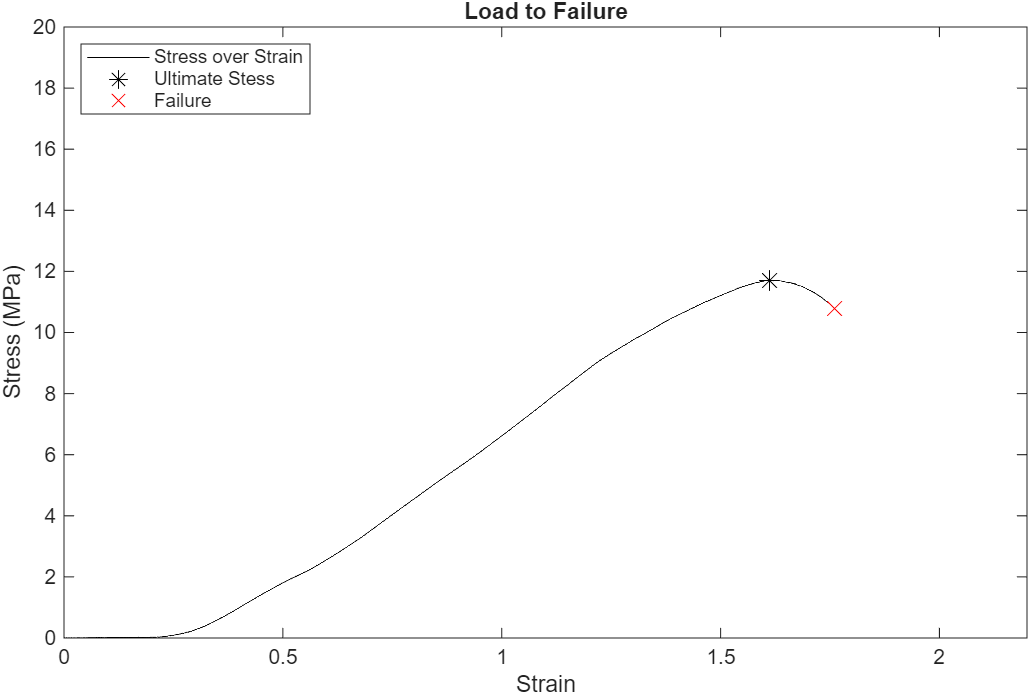
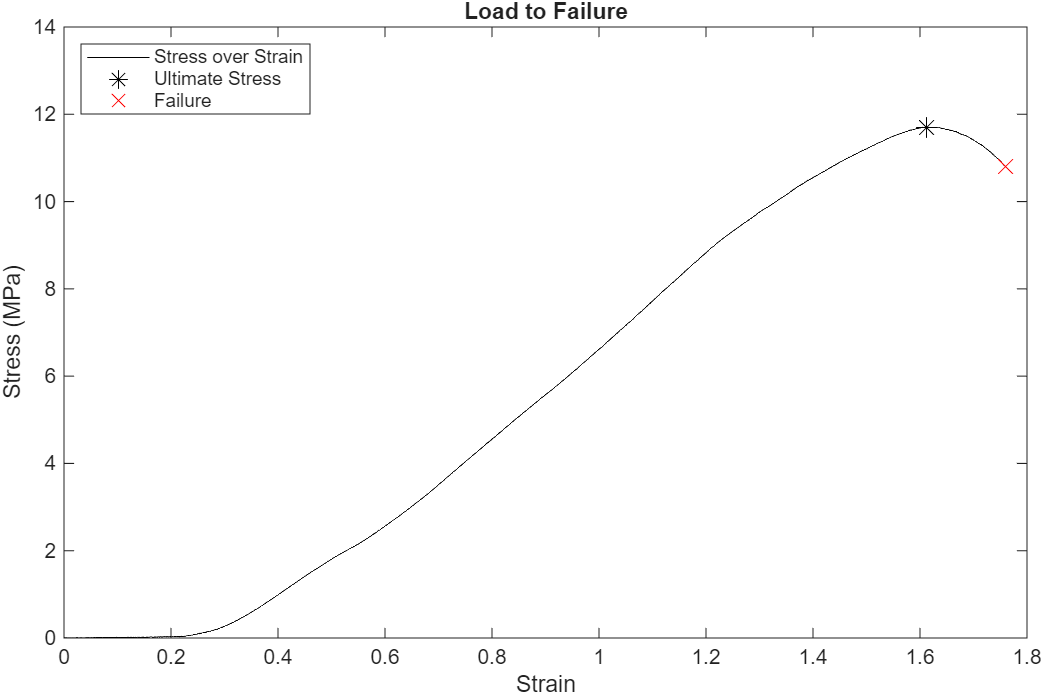
Updated README

diff --git a/main.m b/main.m
@@ -11,8 +11,8 @@ Diameter = 2.5; % Diameter of the indenter tip in mm
 Area = (Diameter/2)^2*pi; % Calculate indenter tip area
 
 % Load Data
-FailureData = readmatrix('LoadToFailureRawData.xlsx');
-RelaxationData = readmatrix('StressRelaxationRawData.xlsx');
+FailureData = readmatrix('Data/LoadToFailureRawData.xlsx');
+RelaxationData = readmatrix('Data/StressRelaxationRawData.xlsx');
 
 %% Stress Relaxation
 SRDepth = 1.32; % Initial length for stress relaxation test in mm
@@ -40,17 +40,18 @@ title("Load to Failure")
 xlabel("Strain")
 ylabel("Stress (MPa)")
 hold on
-plot(x1,y1,'k*','MarkerSize',10) % Plot points of ultimate stress
-plot(x2,y2,'rx','MarkerSize',10) % Plot points of failure
-legend('Stress over Strain','Ultimate Stess','Failure','Location','northwest')
-axis([0 2.2 0 20])
+plot(x1,y1,'k*','MarkerSize',10) % Plot point of ultimate stress
+plot(x2,y2,'rx','MarkerSize',10) % Plot point of failure
+legend('Stress over Strain','Ultimate Stress','Failure','Location','northwest')
+axis([0 1.8 0 14])
 
 %% Output Equation
 fileID = fopen('Output/equation.txt','wt');
-fprintf(fileID,'The following is the equation for relaxation modulus in MPa as a funciton of time in seconds as calculated by the Weichert Model:\n\n');
-fprintf(fileID,'E = %.2f',EValues(1));
+fprintf(fileID,'The following is the equation for relaxation modulus in MPa as a function of time in seconds as calculated by the Weichert Model:\n\n');
+fprintf(fileID,'E = %.2f',EValues(1)); % Initialize each equation with the first fitted constant
 for i = 2:length(EValues')
-fprintf(fileID,' + %.2f * exp(-t / %.2f)',EValues(i),tau(i));
+    % Loop through the remaining constants
+    fprintf(fileID,' + %.2f * exp(-t / %.2f)',EValues(i),tau(i)); % Add them to the equation
 end
 fclose(fileID);
 

diff --git a/load_to_failure_analysis.m b/load_to_failure_analysis.m
@@ -1,14 +1,14 @@
 % Function to analyze data from a load to failure test. Inputs data matrix,
-% intial displacement, and area. The data matrix needs to be formatted as
+% initial displacement, and area. The data matrix needs to be formatted as
 % two columns of normalized data, with the first column representing
 % displacement and the second column representing force. Outputs the
-% strain, stress, ultimate stress, coordiantes of ultimate stress, and
+% strain, stress, ultimate stress, coordinates of ultimate stress, and
 % coordinates of failure.
 
 function [strain,stress,ultimate,x1,y1,x2,y2] = load_to_failure_analysis(FailureData,LFDepth,Area)
 
-    force = FailureData(:,2,1); % Force array in Newtons
-    length = FailureData(:,1,1); % Displacement array in mm
+    force = FailureData(:,2); % Force array in Newtons
+    length = FailureData(:,1); % Displacement array in mm
     strain = abs(length / LFDepth); % Calculates the strain
     stress = force / Area; % Calculates the stress
     [ultimate,index] = max(stress); % Saves the maximum stress

diff --git a/stress_relaxation_analysis.m b/stress_relaxation_analysis.m
@@ -9,11 +9,11 @@
 
 function [time,RelaxationModulus,timeRelax,weichertRel,SD,PE,tau,EValues,correlation] = stress_relaxation_analysis(SRDepth,Area,N,RelaxationData)
 
-    time = RelaxationData(:,1,1); % Extract time array in seconds
-    force = RelaxationData(:,2,1); % Force array in Newtons
+    time = RelaxationData(:,1); % Extract time array in seconds
+    force = RelaxationData(:,2); % Force array in Newtons
     [~,maxIndex] = max(force); % finds where the maximum force occurs
     timeRelax = time(maxIndex:end); % Begins the time array with the maximum force
-    strain = abs(RelaxationData(maxIndex,3,1)/SRDepth); % Calculates the strain that occurs when the maximum force is reached
+    strain = abs(RelaxationData(maxIndex,3)/SRDepth); % Calculates the strain that occurs when the maximum force is reached
     RelaxationModulus = force / Area / strain; % Calculates the relaxation modulus
     weichertRelaxation = RelaxationModulus(maxIndex:end); % Begins relaxation modulus array at the maximum force
     

diff --git a/calculate_weichert.m b/calculate_weichert.m
@@ -34,7 +34,7 @@ function [RelMod,tau,EValues] = calculate_weichert(t,relax,N)
     EValues = (coef) \ ERel; % solves the system of linear equations
     
     % Solve for E over time
-    RelMod = EValues(1); % Initailize with E0
+    RelMod = EValues(1); % Initialize with E0
     
     for i = 2:length(tau)
         % Solve each term of the equation and add it to the total E

diff --git a/README.md b/README.md
@@ -1,35 +1,40 @@
 # Purpose
-This repository is a physiological model of aortic pressure and blood flow in response to vessel parameters that demonstrates how statin treatment can modulate these metrics and parameters in individuals with atherosclerosis. This code was produced from a modified Windkessel model, provided by my Integrated Physiology class.
+This repository analyzes the elastic and viscoelastic properties of chicken femur cartilage. Elastic properties of the specimen underwent a load to failure test, the data of which was plotted and analyzed. The viscoelastic properties were fitted to a computationally determined Weichert model, the accuracy of which was then compared with that of the experimentally obtained data. This repository was created thanks to the data obtained from the final project of my Biomechanics class.
 
 # How to Use this Repository
 ## Requirements
 This repository requires MATLAB.
 
 ## Setup
-To use this repository, modify the "inputs.m" file with your desired inputs. This file takes inputs for a healthy individual, an individual with atherosclerosis, the rate and range of statin treatment, and parameters of the vessel being modeled. Once the inputs are correct, run the "main.m" file to perform the model. The script will output graphs showing blood flow, pressure, and resistance in a single cycle of both a healthy individual and in an individual with atherosclerosis during several months of statin treatment. The script will also output a table describing the change in max aortic pressure with statin treatment over time.
+To use this repository, simply run the "main.m" file in MATLAB. The scripts will read the spreadsheets in the "Data/" folder and will display the created graphs, and output the computed equation of relaxation modulus from the Weichert model as well as the accuracy of the fitting in text files in the "Output/" folder. To change the parameters, modify the variables in the "Input" section of "main.py", such as the number of desired terms in the Weichert model.
 
 # Output
 This section contains the output graphs for the default parameters of this model.
 
-Below is the output graph for a healthy individual with baseline parameters:
-![Healthy Individual](Output/Healthy_Individual.png)
+Below is the output graph for the load to failure test. In this graph, stress is plotted with respect to strain, with the maximum stress and failure points labeled:
+![Healthy Individual](Output/Load_to_Failure.png)
 
-Below is the output graph for an individual with atherosclerosis over several months of statin treatment:
-![Atherosclerosis Individual](Output/Atherosclerosis_Values.png)
+Below is the output graph for the Stress_Relaxation test. In this graph, relaxation modulus is plotted with respect to time, both the experimentally obtained values as well as the computed Weichert model of the data:
+![Atherosclerosis Individual](Output/Stress_Relaxation.png)
 
-Also included in the "Output" folder is a text file containing the values of a table displaying change in max aortic pressure in an individual with atherosclerosis over time.
+Also included in the "Output" folder are text files containing the computed equation from the Weichert model and the results of the statistics tests run on this data.
 
 # Background
+Load to failure and stress relaxation tests were performed on a sample of chicken femur cartilage to determine the elastic and viscoelastic properties of the specimen. Load to failure measured the elastic properties by determining the stress, or force normalized by cross sectional area, the specimen exerted in response to an applied strain, or displacement normalized by the initial length. Stress relaxation measured the viscoelastic properties by determining the relaxation modulus, which is proportional to stress and force, over time when the specimen is held at a constant strain. In the calculations in these scripts, area refers to the area of the indenter tip used to apply stress on the specimen, and cartilage depth refers to the initial depth/length of the specimen for the purposes of calculating strain. 
+
+For the stress relaxation test, the normalized force, displacement, and time data were inputted. The maximum displacement was pulled and converted to strain to serve as the constant strain for the test. Force, area, and strain were used to calculate the relaxation modulus in comparison to the Weichert model. For the Weichert model, 7 experimentally acquired relaxation modulus values and the time points at which they occurred, evenly spaced apart beginning at the point of maximum force, were inputted into the Weichert model. Note that the number of terms is configurable in the "Inputs" section of "main.m". The Weichert model set up and solved a system of 7 linear equations, solving for 7 relaxation moduli constants, representing a Weichert model with 1 spring in parallel with 6 Maxwell elements, a model of viscoelasticity where the spring is the elastic component and the the Maxwell elements are viscoelastic components. The following is the Prony series representing the Weichert model: $E\left(t\right)=E_0+\sum _{i=1}^NE_i\cdot e^{-\frac{t}{\tau _i}}$. These constants were used to numerically generate relaxation modulus over time plots to compare with the experimentally acquired data.
+$
+Statistical analysis of the stress relaxation data served to compare the accuracy of the Weichert model to the experimentally acquired data. The standard deviation of the difference between the Weichert model and the experimental data was computed as a general measure of the deviation between the data and model. Next, the percent error was calculated to represent the accuracy of the model to the data. The R2 value was then computed between the model and data using MATLAB’s “corr” function, representing the significance of the correlation between the model and data.
+
+For the load to failure data, the normalized force and displacement were inputted and converted to stress and strain. The ultimate stress was identified and plotted as the maximum stress that occurred during the plot. The failure point was identified and plotted as the point where the first derivative was most negative, or in other words, the point of steepest decent of the stress vs strain plot.
+
+
+
 The original Windkessel model I used inputted vascular resistance, arterial resistance, and arterial compliance, and outputted graphs of pressure and blood flow over time in the aorta.<sup>1</sup> To better model atherosclerosis, the base Windkessel script was modified to include the following equation: $C = dV/(dp) = (2∗π∗l∗r^3)/(E∗h)$, where compliance (C) is equivalent to the derivative of volume with respect to pressure,  l corresponds to the length of the vessel, r is the radius of the vessel, E is the elastic modulus of the vessel, and h is the wall thickness of the vessel.<sup>2</sup> The initial Windkessel model used a generalized arterial compliance for the aorta, and by implementing this equation into the script, four parameters can be modified to represent a change in compliance, as opposed to one. This is especially relevant for atherosclerosis and its treatment with statins since not all four of these parameters change. For instance, when an individual develops atherosclerosis, plaques develop in their blood vessels that decrease vessel radius, increase vessel wall thickness, and increase the modulus of elasticity, which represent a more narrow and rigid vessel. Treatments with statins can increase the arterial compliance; however, it does not necessarily remove the plaques, so the vessel's radius and vessel's wall thickness remain mostly the same. Instead, a statin treatment can be represented by solely changing the elastic modulus.<sup>3</sup> The addition of the compliance equation allows these nuances to be represented in the model, where some variables change while others remain the same. 
 
 In the default inputs, a section of the aorta was modeled with a length of 300 mm, radius of 20 mm, wall thickness of 2 mm, elastic modulus of 400 kPa, diastolic pressure of 80 mmHg, vascular resistance of $0.1 mmHg*s/mL$, and arterial resistance of $1 mmHg*s/mL$.<sup>4</sup> Atherosclerosis was modeled by doubling the modulus of elasticity to 800 kPa, decreasing the vessel radius by 5% to 19 mm, and increasing the vessel wall thickness by 10% to 2.2 mm. A treatment of statins was modeled by decreasing the modulus of elasticity by 1% for every month of treatment, for a total of twelve months. From these parameters, graphs were generated displaying a single phase of pressure, blood flow, and resistance over the course of a second for the baseline conditions. The same graphs were generated for the atherosclerosis conditions, and they were regenerated after every four months of treatment with statins.
 
 # Limitations
-This model makes assumptions about the impacts of statins. Most notably, it assumes that statin treatment can produce a constant effect that solely alters elastic modulus. The purpose of this assumption was to demonstrate that only treating one parameter affected by a disease state can still produce substantial alleviation from the disease's symptoms.
+The results of the Weichert model with the default parameters suggest a fairly high degree of accuracy, with a percent error between the model and data of 3.07% and correlation of 0.993. However, the Weichert model does tend to blow up when adding too many parameters to the model. 7 terms was experimentally determined to be the optimal number for generating a model for the given data, where fewer terms reduced the accuracy, and too many risked breaking the model. Discretion with the number of terms for this model is advised. Notably, the stress vs strain plot for the given data shows strain that exceeds 1. This is highly unlikely to be accurate, since a strain of 1 indicates a displacement of 100%. Since most materials reach their failure point far before this point, this likely indicates error. Since the calculations to generate this plot are fairly straight forward, this error likely stems from configuration settings when measuring the data, such as incorrectly measuring the initial displacement.
 
 # References
-1. Westerhof, N., Stergiopulos, N., & Noble, M. I. M. (2008). The arterial windkessel. Medical & Biological Engineering & Computing, 47(2), 131–141. https://doi.org/10.1007/s11517-008-0359-2 
-2. Brown, D. (n.d.). Thin-walled cylindrical vessel. Vermont Veterinary Cardiology Services. Retrieved December 8, 2025, from https://www.vermontveterinarycardiology.com/index.php/for-cardiologists/for-cardiologists?id=204&utm 
-3. Alidadi, M., Montecucco, F., Jamialahmadi, T., Al-Rasadi, K., Johnston, T. P., & Sahebkar, A. (2021). Beneficial effect of 
-statin therapy on arterial stiffness. BioMed Research International, 2021, Article 5548310. https://doi.org/10.1155/2021/5548310 
-4. Turkbey, E. B., Jain, A., Johnson, C., Redheuil, A., Arai, A. E., Gomes, A. S., Carr, J., Hundley, W. G., Teixido-Tura, G., Eng, J., Lima, J. A. C., & Bluemke, D. A. (2014). Determinants and normal values of ascending aortic diameter by age, gender and race/ethnicity in the Multi-Ethnic Study of Atherosclerosis (MESA). Journal of Magnetic Resonance Imaging, 39(2), 360–368. https://doi.org/10.1002/jmri.24183 
